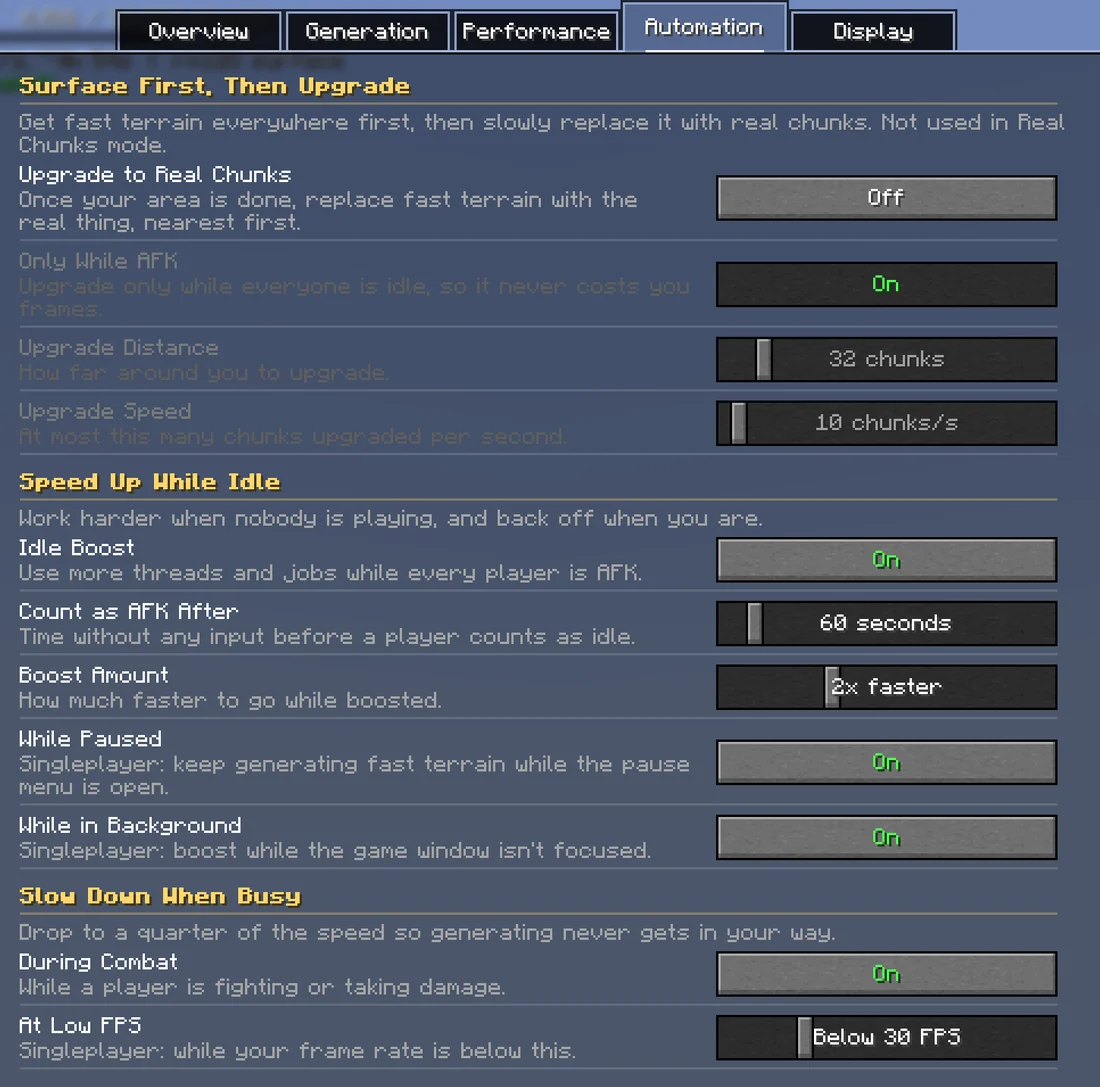
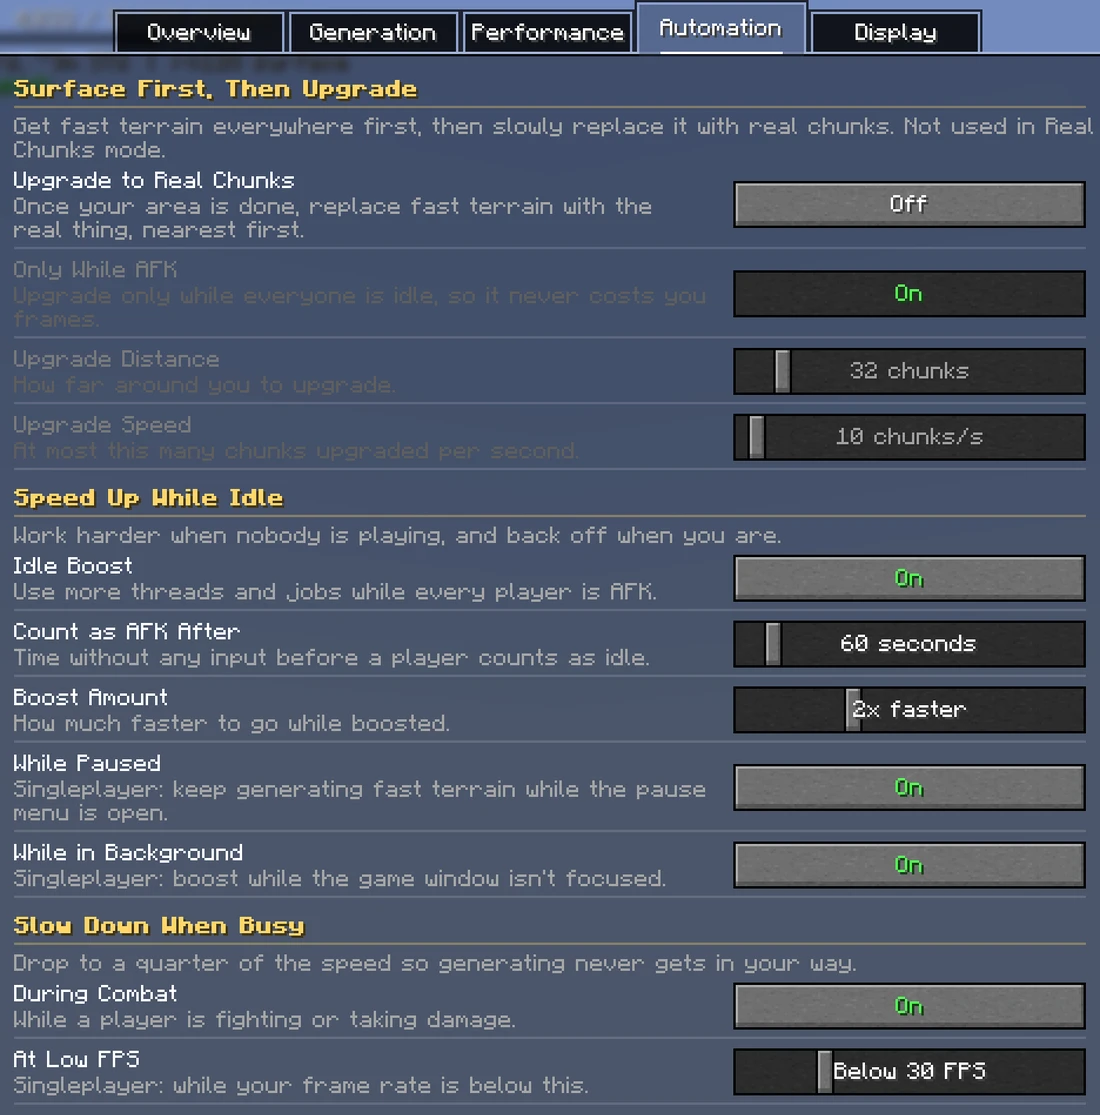
Reorganize into Your world, add world gen mods and shaders pages, accessibility fixes
Adds a viewport and language so the page scales on phones and screen
readers know its language, a skip link, focus moving to each page's
title, a spoken result count in search, a glossary, and fixes a
duplicate id. Settings screenshots retaken for 1.0.4.

diff --git a/index.html b/index.html
@@ -1,4 +1,7 @@
 <!doctype html>
+<html lang="en">
+<meta charset="utf-8">
+<meta name="viewport" content="width=device-width, initial-scale=1">
 <title>Voxy Speed Gen Wiki</title>
 <meta name="description" content="Guide and reference for Voxy Speed Gen, the background LOD generator for Voxy.">
 <link rel="preconnect" href="https://fonts.googleapis.com">
@@ -335,9 +338,18 @@ dialog::backdrop { background: rgba(8, 12, 10, .55); backdrop-filter: blur(3px);
   .pn .next { grid-column: 1; }
   h2 { font-size: 21px; }
 }
+.skip { position: absolute; left: 12px; top: -60px; z-index: 200; padding: 10px 16px; border: 2px solid var(--accent); border-radius: var(--radius); background: var(--panel); color: var(--ink); font: 600 15px/1 var(--f-body); cursor: pointer; }
+.skip:focus { top: 10px; }
+.sr-only { position: absolute; width: 1px; height: 1px; padding: 0; margin: -1px; overflow: hidden; clip: rect(0 0 0 0); white-space: nowrap; border: 0; }
+main:focus, h1:focus { outline: none; }
+.gloss { display: grid; grid-template-columns: max-content 1fr; gap: 6px 18px; margin: 0 0 8px; }
+.gloss dt { font-weight: 700; }
+.gloss dd { margin: 0; color: var(--ink-2); }
+@media (max-width: 560px) { .gloss { grid-template-columns: 1fr; } .gloss dd { margin-bottom: 8px; } }
 @media (prefers-reduced-motion: reduce) { *, *::before, *::after { transition-duration: 0ms !important; animation-duration: 0ms !important; } }
 </style>
 
+<button class="skip" type="button" onclick="document.getElementById('main').focus()">Skip to content</button>
 <header class="top">
   <button class="icon-btn" id="menuBtn" aria-label="Open navigation" aria-expanded="false" aria-controls="side">
     <svg width="18" height="18" viewBox="0 0 18 18" aria-hidden="true"><path d="M2 4h14M2 9h14M2 14h14" stroke="currentColor" stroke-width="2" fill="none"/></svg>
@@ -352,7 +364,7 @@ dialog::backdrop { background: rgba(8, 12, 10, .55); backdrop-filter: blur(3px);
 
 <div class="shell">
   <aside class="side" id="side" aria-label="Wiki navigation"><nav id="nav"></nav></aside>
-  <main id="main">
+  <main id="main" tabindex="-1">
 
 <article class="page" data-page="home">
   <div class="mp-banner">
@@ -361,7 +373,7 @@ dialog::backdrop { background: rgba(8, 12, 10, .55); backdrop-filter: blur(3px);
         <img src="img/icon.png" alt="">
         <div><h1>Voxy Speed Gen</h1><p>Background LOD generator for Voxy &middot; Fabric</p></div>
       </div>
-      <p class="mp-intro">Voxy only draws distant terrain for chunks you've already loaded. Voxy Speed Gen generates that terrain in the background, around every player, so the horizon fills in without anyone flying out to explore it.</p>
+      <p class="mp-intro">Voxy only draws distant terrain for chunks you've already loaded. Voxy Speed Gen generates that terrain in the background, around every player, so the horizon fills in without anyone flying out to explore it. It runs your world's own generator, so it works with Tellus, terrain and biome mods, and datapacks.</p>
       <figure class="mp-hero">
         <button class="shot" data-src="img/vista_high.webp" aria-label="Enlarge"><img src="img/vista_high.webp" alt="A landscape of forests, coast and snowy mountains stretching to the horizon, all rendered by Voxy." width="1600" height="900"></button>
         <div class="stamp"><span>Default settings</span><span>LOD Distance 128</span></div>
@@ -390,8 +402,8 @@ dialog::backdrop { background: rgba(8, 12, 10, .55); backdrop-filter: blur(3px);
       <h3><a href="#getting-started">Getting started</a></h3><p>Install it, pick the right jar, and see what happens on first launch.</p>
       <div class="subs"><a href="#install">Installing</a><a href="#versions">Versions</a><a href="#first-launch">First launch</a></div></div></div>
     <div class="card"><div class="thumb"><img src="img/treesa_accurate.webp" alt="" loading="lazy"></div><div class="body">
-      <h3><a href="#generation">Generation</a></h3><p>How distant terrain is made, what it includes, and where.</p>
-      <div class="subs"><a href="#modes">Modes</a><a href="#trees">Trees, snow &amp; ice</a><a href="#where">Area</a></div></div></div>
+      <h3><a href="#generation">Your world</a></h3><p>How distant terrain is made, what it includes, where, and what to know for your kind of world.</p>
+      <div class="subs"><a href="#modes">Modes</a><a href="#trees">Trees</a><a href="#where">Area</a><a href="#distances">Distances map</a><a href="#worldgen">World gen mods</a><a href="#tellus">Tellus</a><a href="#shaders">Shaders</a></div></div></div>
     <div class="card"><div class="thumb top"><img src="img/defaults_tab1_full.webp" alt="" loading="lazy"></div><div class="body">
       <h3><a href="#settings">Settings screen</a></h3><p>Every setting, one page per tab, as it appears in game.</p>
       <div class="subs"><a href="#tab-overview">Overview</a><a href="#tab-generation">Generation</a><a href="#tab-performance">Performance</a><a href="#tab-automation">Automation</a><a href="#tab-display">Display</a></div></div></div>
@@ -416,7 +428,21 @@ dialog::backdrop { background: rgba(8, 12, 10, .55); backdrop-filter: blur(3px);
     <li><a href="#pregen">Pregenerate a map before players join <span>Pregenerator</span></a></li>
     <li><a href="#conflicts">Can I use it with Voxy WorldGen? <span>Installing</span></a></li>
     <li><a href="#hud">What do the HUD numbers mean? <span>Progress HUD</span></a></li>
+    <li><a href="#worldgen">Does it work with my world gen mod? <span>World gen mods</span></a></li>
+    <li><a href="#shaders">LODs disappear with shaders <span>Shaders</span></a></li>
+    <li><a href="#distances">Set where trees and detail change <span>Distances map</span></a></li>
+    <li><a href="#rough-horizon">Fill a huge Tellus distance fast <span>Tellus</span></a></li>
   </ul>
+
+  <h2 id="words">Words used on this wiki</h2>
+  <dl class="gloss">
+    <dt>LOD</dt><dd>Level of detail: the simplified far-away terrain Voxy draws past your normal render distance.</dd>
+    <dt>Chunk</dt><dd>A 16 by 16 block column of the world. Distances here are in chunks; one chunk is 16 blocks.</dd>
+    <dt>Render distance</dt><dd>How far the game loads and draws real chunks. LODs fill in everything past it.</dd>
+    <dt>Real chunk</dt><dd>A chunk generated the normal way and saved in your world, with caves, ores and structures.</dd>
+    <dt>Fast terrain</dt><dd>Only the surface (ground, water, biomes, trees), made without saving a real chunk. Much quicker, and looks the same from far away.</dd>
+    <dt>World generator</dt><dd>What decides how a world looks: vanilla's, or one from a mod like Tellus.</dd>
+  </dl>
 
   <h2 id="features-list">Features</h2>
   <div class="mini-cards">
@@ -476,12 +502,12 @@ dialog::backdrop { background: rgba(8, 12, 10, .55); backdrop-filter: blur(3px);
   <div class="table-wrap"><table>
     <thead><tr><th>Jar</th><th>Minecraft</th><th>Java</th><th>Voxy</th><th>JourneyMap shading</th></tr></thead>
     <tbody>
-      <tr><td><code>voxy-speed-gen-1.0.3+26.2.jar</code></td><td class="nw">26.2</td><td>25</td><td>0.2.17+</td><td>Yes</td></tr>
-      <tr><td><code>voxy-speed-gen-1.0.3+26.1.2.jar</code></td><td class="nw">26.1 &ndash; 26.1.2</td><td>25</td><td>0.2.14+</td><td>Yes</td></tr>
-      <tr><td><code>voxy-speed-gen-1.0.3+1.21.11.jar</code></td><td class="nw">1.21.11</td><td>21</td><td>0.2.7+</td><td>Yes</td></tr>
-      <tr><td><code>voxy-speed-gen-1.0.3+1.21.10.jar</code></td><td class="nw">1.21.9 &ndash; 1.21.10</td><td>21</td><td>0.2.5+</td><td>Yes</td></tr>
-      <tr><td><code>voxy-speed-gen-1.0.3+1.21.8.jar</code></td><td class="nw">1.21.6 &ndash; 1.21.8</td><td>21</td><td>0.2.4+</td><td>Yes</td></tr>
-      <tr><td><code>voxy-speed-gen-1.0.3+1.20.4.jar</code></td><td class="nw">1.20.4</td><td>17</td><td>0.1.5</td><td>No</td></tr>
+      <tr><td><code>voxy-speed-gen-1.0.4+26.2.jar</code></td><td class="nw">26.2</td><td>25</td><td>0.2.17+</td><td>Yes</td></tr>
+      <tr><td><code>voxy-speed-gen-1.0.4+26.1.2.jar</code></td><td class="nw">26.1 &ndash; 26.1.2</td><td>25</td><td>0.2.14+</td><td>Yes</td></tr>
+      <tr><td><code>voxy-speed-gen-1.0.4+1.21.11.jar</code></td><td class="nw">1.21.11</td><td>21</td><td>0.2.7+</td><td>Yes</td></tr>
+      <tr><td><code>voxy-speed-gen-1.0.4+1.21.10.jar</code></td><td class="nw">1.21.9 &ndash; 1.21.10</td><td>21</td><td>0.2.5+</td><td>Yes</td></tr>
+      <tr><td><code>voxy-speed-gen-1.0.4+1.21.8.jar</code></td><td class="nw">1.21.6 &ndash; 1.21.8</td><td>21</td><td>0.2.4+</td><td>Yes</td></tr>
+      <tr><td><code>voxy-speed-gen-1.0.4+1.20.4.jar</code></td><td class="nw">1.20.4</td><td>17</td><td>0.1.5</td><td>No</td></tr>
     </tbody>
   </table></div>
   <h2 id="v1204">1.20.4 limitations</h2>
@@ -538,14 +564,16 @@ dialog::backdrop { background: rgba(8, 12, 10, .55); backdrop-filter: blur(3px);
 </article>
 
 <article class="page" data-page="generation">
-  <h1>Generation</h1>
-  <p class="summary">How distant terrain is made, what ends up in it, and which area around you gets generated.</p>
+  <h1>Your world</h1>
+  <p class="summary">How distant terrain is made, what ends up in it, which area around you gets generated, and what to know for your kind of world.</p>
   <div class="cards">
     <div class="card"><div class="thumb"><img src="img/vista_w.webp" alt="" loading="lazy"></div><div class="body"><h3><a href="#modes">Generation modes</a></h3><p>Fast terrain, real chunks, or a mix.</p></div></div>
     <div class="card"><div class="thumb"><img src="img/treesb_accurate.webp" alt="" loading="lazy"></div><div class="body"><h3><a href="#trees">Trees, snow &amp; ice</a></h3><p>What makes the far view look like the real thing.</p></div></div>
     <div class="card"><div class="thumb"><img src="img/topdown.webp" alt="" loading="lazy"></div><div class="body"><h3><a href="#where">Generation area</a></h3><p>The circle around each player, nearest first.</p></div></div>
     <div class="card"><div class="thumb top"><img src="img/distances_canvas.webp" alt="" loading="lazy"></div><div class="body"><h3><a href="#distances">Distances map</a></h3><p>Drag circles to set every distance, and turn them on or off.</p></div></div>
     <div class="card"><div class="thumb"><img src="img/vista_high.webp" alt="" loading="lazy"></div><div class="body"><h3><a href="#tellus">Tellus worlds</a></h3><p>A rough horizon in minutes, low detail far out, Tellus's own trees.</p></div></div>
+    <div class="card"><div class="thumb"><img src="img/vista_w.webp" alt="" loading="lazy"></div><div class="body"><h3><a href="#worldgen">World gen mods</a></h3><p>Terrain and biome mods, datapacks and custom generators.</p></div></div>
+    <div class="card"><div class="thumb"><img src="img/vista_n.webp" alt="" loading="lazy"></div><div class="body"><h3><a href="#shaders">Shaders</a></h3><p>LODs with shader packs, and the Iris 1.11.4 fix.</p></div></div>
   </div>
 </article>
 
@@ -768,6 +796,51 @@ dialog::backdrop { background: rgba(8, 12, 10, .55); backdrop-filter: blur(3px);
   <h2 id="tellus-memory">Memory</h2>
   <p>Tellus's terrain step normally makes the game load nearby chunks to check for structures. Voxy Speed Gen gives it an empty structure list instead, so generating far away doesn't fill your memory with loaded chunks.</p>
   <div class="seealso"><h4>See also</h4><div><a href="#distances">Distances map</a><a href="#performance">Performance</a><a href="#modes">Generation modes</a></div></div>
+</article>
+
+<article class="page" data-page="worldgen">
+  <h1>World gen mods</h1>
+  <p class="summary">Voxy Speed Gen runs your world's own generator, whatever it is, so the LODs match the terrain you'll walk into. That makes it a good fit for terrain and biome mods, datapacks and mods with their own generator.</p>
+  <h2 id="how-generators">How it handles a generator</h2>
+  <div class="table-wrap"><table>
+    <thead><tr><th>Kind of world</th><th>What happens</th></tr></thead>
+    <tbody>
+      <tr><td>Vanilla, and mods or datapacks that change vanilla's terrain settings and biomes</td><td>Fast terrain from the world's own noise settings, biomes and features</td></tr>
+      <tr><td>Mods with their own generator (Tellus, for example)</td><td>Fast terrain by running that generator's own terrain steps on a temporary chunk</td></tr>
+      <tr><td>A generator that can't be run that way</td><td>It notices and switches to real chunks for that world by itself. Slower, but the LODs still come out right.</td></tr>
+    </tbody>
+  </table></div>
+  <h2 id="check-world">Check your world</h2>
+  <p>Run <a href="#verify"><code>/vsg verify</code></a> near real chunks. It compares the fast terrain with real generation and gives a plain verdict. A poor verdict means a mod changes the terrain in a way the fast pass can't follow: use <a href="#modes">Real Chunks or Balanced</a> for that world.</p>
+  <h2 id="worldgen-structures">Structures from mods</h2>
+  <p>Fast terrain has no structures, from vanilla or from mods. If you want big ones visible from far away, use Balanced (real chunks near you) or <a href="#upgrade">upgrade to real chunks</a> once the area is filled.</p>
+  <h2 id="worldgen-trees">Trees from mods</h2>
+  <p>With trees on Vanilla, the world's own tree features are placed, including ones added by mods. Simple trees are look-alikes picked by biome, so modded trees show up as the closest vanilla shape.</p>
+  <h2 id="regular-worlds">Regular worlds</h2>
+  <p>In a singleplayer world with Minecraft's regular terrain generator, the mod points you once to Voxy SeedGen, which draws those worlds faster straight from the seed. Turn the tip off with <span class="ui">Suggest Voxy SeedGen</span> on the <a href="#tab-display">Display tab</a>.</p>
+  <div class="seealso"><h4>See also</h4><div><a href="#tellus">Tellus worlds</a><a href="#verify">Accuracy check</a><a href="#modes">Generation modes</a></div></div>
+</article>
+
+<article class="page" data-page="shaders">
+  <h1>Shaders</h1>
+  <p class="summary">Voxy's LODs work with shader packs that support Voxy. On Minecraft 26.2 with Iris 1.11.4, this mod also fixes LODs that would otherwise disappear.</p>
+  <h2 id="iris-fix">The Iris 1.11.4 fix</h2>
+  <p>Iris 1.11.4 changed how it handles depth, and with Voxy 0.2.19 that made the LODs invisible with every shader pack. Voxy Speed Gen corrects this when both are installed. It also lines LOD water and fog up with the normal chunks at the edge of your render distance, so the seam doesn't show.</p>
+  <h2 id="packs">Shader packs</h2>
+  <div class="table-wrap"><table>
+    <thead><tr><th>Pack</th><th>LODs</th></tr></thead>
+    <tbody>
+      <tr><td>BSL</td><td>Works</td></tr>
+      <tr><td>Complementary Reimagined</td><td>Works</td></tr>
+      <tr><td>Complementary Unbound</td><td>Works</td></tr>
+      <tr><td>Photon</td><td>Works</td></tr>
+      <tr><td>Bliss 2.1.2</td><td>No: the pack has no Voxy support</td></tr>
+    </tbody>
+  </table></div>
+  <p>The pack itself has to support Voxy. If a pack shows no LODs at all, check the pack's page for Voxy support first.</p>
+  <h2 id="shader-fog">Fog right past the render distance</h2>
+  <p>That's Voxy's <b>Fog and fade effect</b> setting, not the shader. Set it to "Fade only" or "Off".</p>
+  <div class="seealso"><h4>See also</h4><div><a href="#faq">FAQ</a><a href="#troubleshooting">Troubleshooting</a></div></div>
 </article>
 
 <article class="page" data-page="features">
@@ -1179,6 +1252,7 @@ dialog::backdrop { background: rgba(8, 12, 10, .55); backdrop-filter: blur(3px);
         <tr class="grp"><td colspan="3">On Your Screen (yours, even on a server)</td></tr>
         <tr><td><span class="ui">Progress Display</span><code class="key">hudMode</code></td><td>Hidden, Progress or Detailed. <kbd>F6</kbd> cycles it. <a href="#hud">More</a></td><td>Progress</td></tr>
         <tr><td><span class="ui">Map Shading</span><code class="key">mapOverlay</code></td><td>Shade LOD areas on Xaero's World Map or JourneyMap. <a href="#maps">More</a></td><td>On</td></tr>
+        <tr><td><span class="ui">Suggest Voxy SeedGen</span><code class="key">seedGenTip</code></td><td>In a world with regular terrain, points you once to a faster tool for it. <a href="#regular-worlds">More</a></td><td>On</td></tr>
         <tr class="grp"><td colspan="3">Multiplayer</td></tr>
         <tr><td><span class="ui">Send LODs to Players</span><code class="key">sendToClients</code></td><td>Stream LODs to players who have Voxy</td><td>On</td></tr>
         <tr><td><span class="ui">Upload Speed per Player</span><code class="key">maxColumnsPerSecondPerPlayer</code></td><td>Bandwidth limit per player. Lower it if players lag on join.</td><td>80/s</td></tr>
@@ -1326,6 +1400,7 @@ dialog::backdrop { background: rgba(8, 12, 10, .55); backdrop-filter: blur(3px);
       <tr><td><code>keepGeneratedTerrain</code></td><td><code>true</code></td><td>Keep Generated Terrain</td><td>Generation</td></tr>
       <tr><td><code>fillLoadingChunks</code></td><td><code>true</code></td><td>Fill Chunks Still Loading</td><td>Generation</td></tr>
       <tr><td><code>giantFar</code></td><td><code>true</code></td><td>Rough Horizon First (Tellus)</td><td>Generation</td></tr>
+      <tr><td><code>seedGenTip</code></td><td><code>true</code></td><td>Suggest Voxy SeedGen</td><td>Display</td></tr>
       <tr><td><code>simpleTreesFar</code> / <code>simpleTreesBeyond</code></td><td><code>true</code> / <code>256</code></td><td>Simple Trees From</td><td>Overview (Distances)</td></tr>
       <tr><td><code>noTreesFar</code> / <code>noTreesBeyond</code></td><td><code>false</code> / <code>512</code></td><td>No Trees From</td><td>Overview (Distances)</td></tr>
       <tr><td><code>lowDetailFar</code> / <code>lowDetailBeyond</code></td><td><code>true</code> / <code>256</code></td><td>Low Detail (Tellus)</td><td>Overview (Distances)</td></tr>
@@ -1421,7 +1496,7 @@ dialog::backdrop { background: rgba(8, 12, 10, .55); backdrop-filter: blur(3px);
     </div>
   </div>
   <p class="muted" style="margin-top:-12px">Replayed at 15&times; from the completion times measured in this setup. The square in the middle is the render distance, which the game loads itself.</p>
-  <h2 id="results">Results in this setup</h2>
+  <h2 id="bench-results">Results in this setup</h2>
   <div class="table-wrap"><table>
     <thead><tr><th>Generator</th><th class="num">Rate into Voxy</th><th class="num">64-chunk radius</th><th class="num">Server ms/tick</th></tr></thead>
     <tbody>
@@ -1498,9 +1573,9 @@ dialog::backdrop { background: rgba(8, 12, 10, .55); backdrop-filter: blur(3px);
   <h2 id="disk">How much disk does it use?</h2>
   <p>In Fast mode, nothing in your region files. Saved terrain goes in <code>&lt;world&gt;/data/voxy_speed_gen/terrain/</code>, and <code>/vsg</code> shows its size. Voxy's own cache grows with LOD Distance, whatever fills it.</p>
   <h2 id="worldgen-mods">Does it work with worldgen mods?</h2>
-  <p>Noise-based ones usually do; check with <a href="#verify"><code>/vsg verify</code></a>. Others, such as Tellus, run their own terrain stages in Fast mode. If that keeps failing for a generator, it switches to real chunks by itself.</p>
+  <p>Yes: it runs your world's own generator. Check a world with <a href="#verify"><code>/vsg verify</code></a>. More on <a href="#worldgen">World gen mods</a>.</p>
   <h2 id="shaders">LODs disappear when I turn on a shader pack</h2>
-  <p>On Minecraft 26.2, Iris 1.11.4 hid Voxy's LODs with every shader pack. This mod fixes that, and lines LOD water and fog up with the real chunks. The shader pack still needs its own Voxy support: BSL, Complementary Reimagined and Unbound, and Photon have it; Bliss 2.1.2 doesn't.</p>
+  <p>On Minecraft 26.2, Iris 1.11.4 hid Voxy's LODs with every shader pack, and this mod fixes that. The pack still needs its own Voxy support. See <a href="#shaders">Shaders</a>.</p>
   <h2 id="old-trees">I changed the tree setting, but areas I'd already filled look the same</h2>
   <p>Areas Voxy already has are skipped. Turn off <span class="ui">Skip Existing LODs</span>, run <code>/vsg forget all</code>, and the mod fills them again with the new setting.</p>
   <h2 id="with-vwg">Can I use it with Voxy WorldGen?</h2>
@@ -1508,7 +1583,7 @@ dialog::backdrop { background: rgba(8, 12, 10, .55); backdrop-filter: blur(3px);
 </article>
 
     <nav class="pn" id="pn" aria-label="Previous and next page"></nav>
-    <div class="foot">Voxy Speed Gen 1.0.3 &middot; MIT. Voxy is All-Rights-Reserved and never bundled. Screenshots were taken in game with default settings unless a caption says otherwise.</div>
+    <div class="foot">Voxy Speed Gen 1.0.4 &middot; MIT. Voxy is All-Rights-Reserved and never bundled. Screenshots were taken in game with default settings unless a caption says otherwise.</div>
   </main>
   <aside class="toc" id="toc" aria-label="On this page"></aside>
 </div>
@@ -1520,7 +1595,8 @@ dialog::backdrop { background: rgba(8, 12, 10, .55); backdrop-filter: blur(3px);
       <input id="q" type="search" placeholder="Search pages, settings, commands" autocomplete="off" aria-controls="results">
       <span class="k">Esc</span>
     </div>
-    <ul class="results" id="results" role="listbox"></ul>
+    <ul class="results" id="results" role="listbox" aria-label="Search results"></ul>
+    <p class="sr-only" id="resultCount" aria-live="polite"></p>
     <div class="search-foot"><span><span class="k">&uarr;</span> <span class="k">&darr;</span> move</span><span><span class="k">Enter</span> open</span><span>Try "fog", "upload", "F6"</span></div>
   </div>
 </dialog>
@@ -1540,12 +1616,14 @@ dialog::backdrop { background: rgba(8, 12, 10, .55); backdrop-filter: blur(3px);
       { page: 'install', title: 'Installing' },
       { page: 'versions', title: 'Versions' },
       { page: 'first-launch', title: 'First launch' } ] },
-    { section: 'Generation', page: 'generation', children: [
+    { section: 'Your world', page: 'generation', children: [
       { page: 'modes', title: 'Generation modes' },
       { page: 'trees', title: 'Trees, snow & ice' },
       { page: 'where', title: 'Generation area' },
       { page: 'distances', title: 'Distances map' },
-      { page: 'tellus', title: 'Tellus worlds' } ] },
+      { page: 'worldgen', title: 'World gen mods' },
+      { page: 'tellus', title: 'Tellus worlds' },
+      { page: 'shaders', title: 'Shaders' } ] },
     { section: 'Features', page: 'features', children: [
       { page: 'saved', title: 'Saved terrain' },
       { page: 'placeholders', title: 'No holes while loading' },
@@ -1647,7 +1725,7 @@ dialog::backdrop { background: rgba(8, 12, 10, .55); backdrop-filter: blur(3px);
 
   /* router */
   const toc = $('#toc'), pn = $('#pn');
-  let current = null;
+  let current = null, routed = false;
   function route() {
     const h = decodeURIComponent(location.hash.slice(1));
     const pageId = byId[h] ? h : (sectionToPage[h] || 'home');
@@ -1663,6 +1741,7 @@ dialog::backdrop { background: rgba(8, 12, 10, .55); backdrop-filter: blur(3px);
       pn.innerHTML = (prev ? `<a href="#${prev}"><small>Previous</small><span>${info[prev].title}</span></a>` : '<span></span>') +
         (next ? `<a class="next" href="#${next}"><small>Next</small><span>${info[next].title}</span></a>` : '');
       if (!target) window.scrollTo(0, 0);
+      if (routed) { const t = page.querySelector('h1'); if (t) { t.tabIndex = -1; t.focus({ preventScroll: true }); } }
       page.dispatchEvent(new Event('shown'));
     }
     if (target) requestAnimationFrame(() => target.scrollIntoView({ block: 'start' }));
@@ -1714,7 +1793,7 @@ dialog::backdrop { background: rgba(8, 12, 10, .55); backdrop-filter: blur(3px);
     }, { rootMargin: '-60px 0px -65% 0px' });
     hs.forEach(h => io.observe(h));
   }
-  addEventListener('hashchange', route);
+  addEventListener('hashchange', () => { routed = true; route(); });
   $('#menuBtn').addEventListener('click', () => { const open = document.body.classList.toggle('nav-open'); $('#menuBtn').setAttribute('aria-expanded', String(open)); });
   document.addEventListener('click', e => { if (document.body.classList.contains('nav-open') && !e.target.closest('#side, #menuBtn')) document.body.classList.remove('nav-open'); });
 
@@ -1752,6 +1831,7 @@ dialog::backdrop { background: rgba(8, 12, 10, .55); backdrop-filter: blur(3px);
       let snip = r.text; if (terms.length) { const at = snip.toLowerCase().indexOf(terms[0]); if (at > 40) snip = '…' + snip.slice(at - 30); }
       return `<li><a href="${r.href}" role="option" data-i="${i}" aria-selected="${i === 0}"><span class="rp">${esc(r.page)}</span><br><span class="rt">${hlt(r.title, terms)}</span><span class="rs">${hlt(snip.slice(0, 160), terms)}</span></a></li>`;
     }).join('') : `<li class="empty">Nothing matches "${esc(q.value)}". Try a setting name as shown in game, like "LOD Distance".</li>`;
+    $('#resultCount').textContent = shown.length ? shown.length + (shown.length === 1 ? ' result' : ' results') : 'No results';
   }
   function move(d) { const as = $$('a', res); if (!as.length) return; as[sel].setAttribute('aria-selected', 'false'); sel = (sel + d + as.length) % as.length; as[sel].setAttribute('aria-selected', 'true'); as[sel].scrollIntoView({ block: 'nearest' }); }
   function openSearch() { dlg.showModal(); q.value = ''; search(); q.focus(); }
